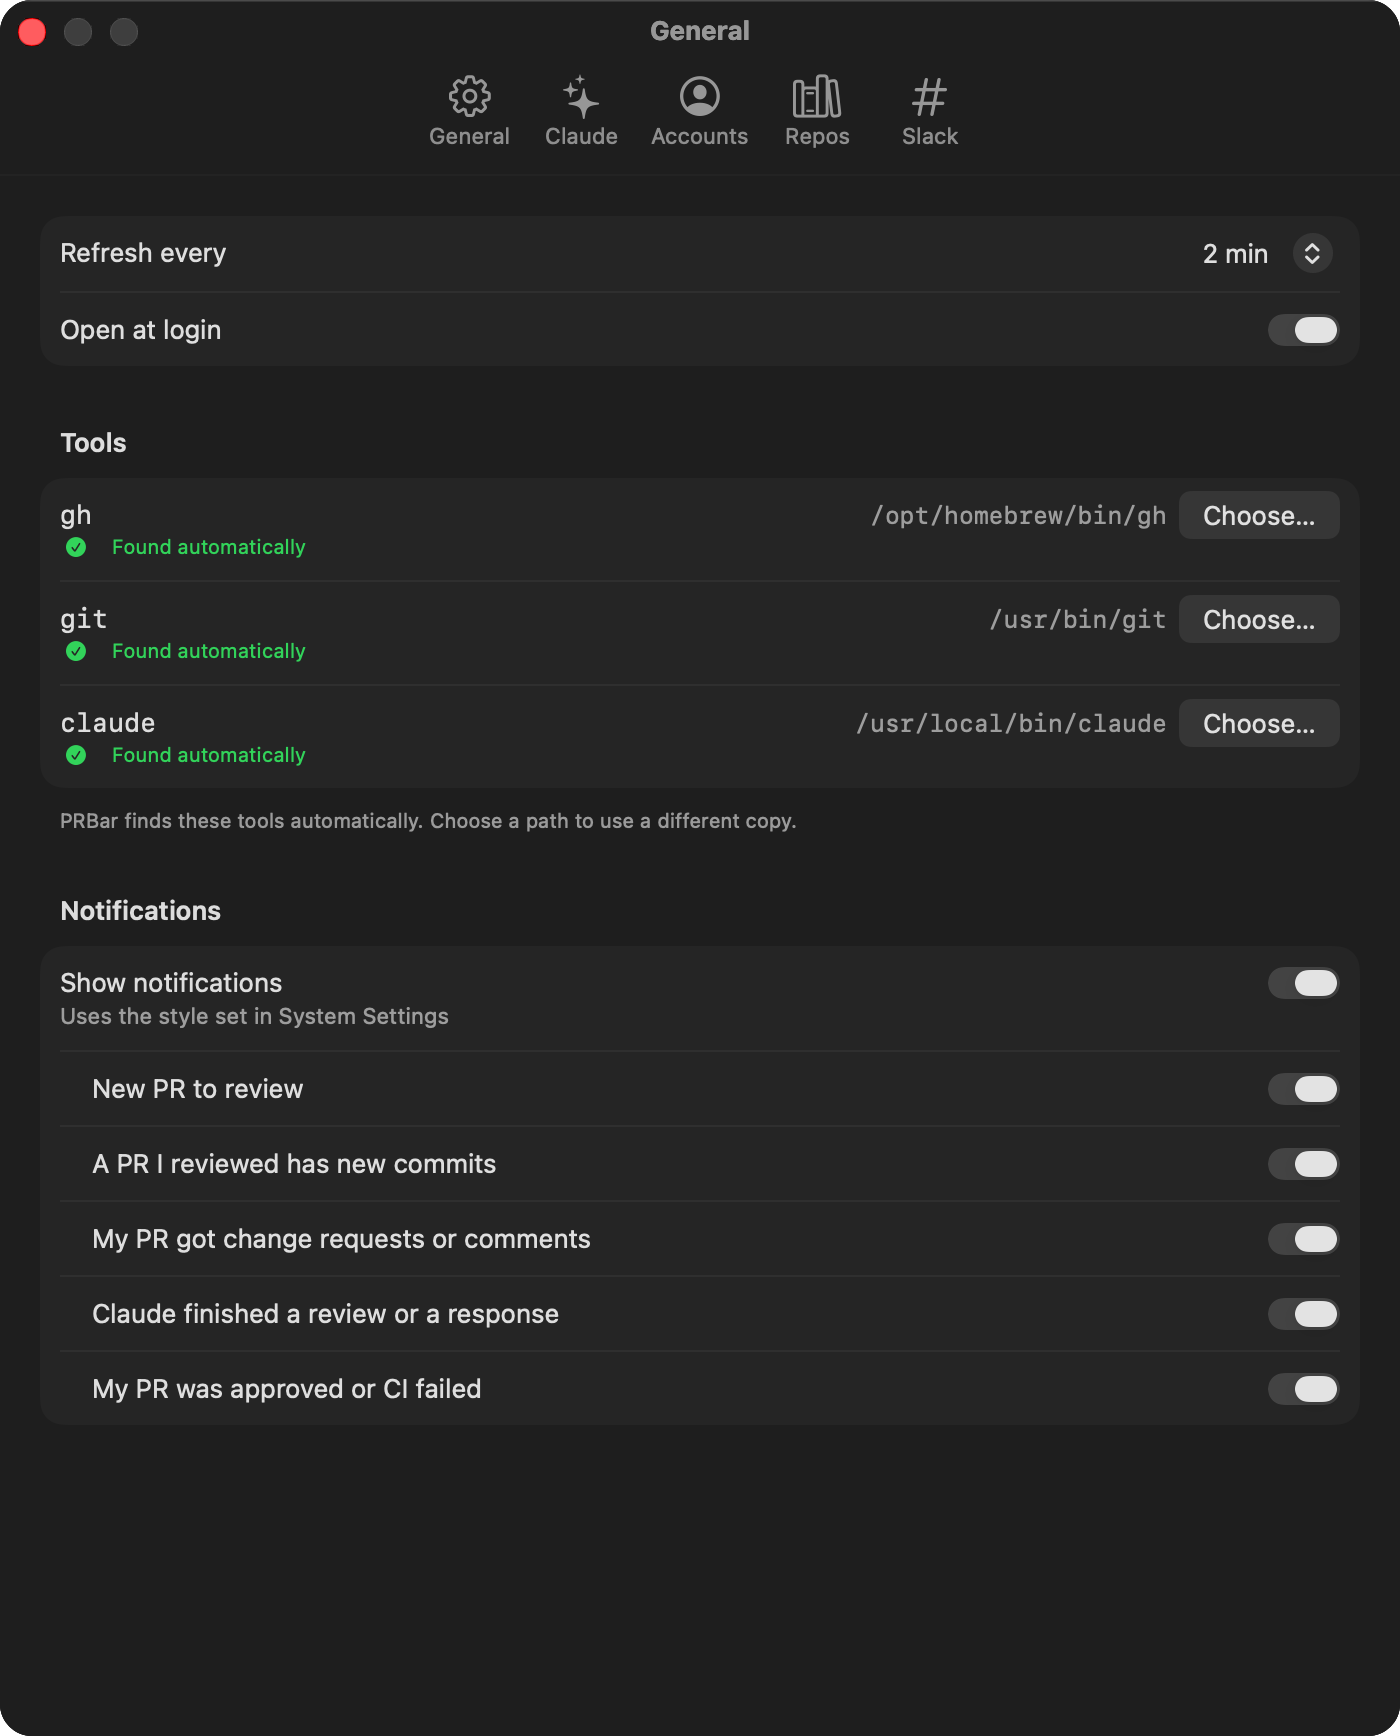
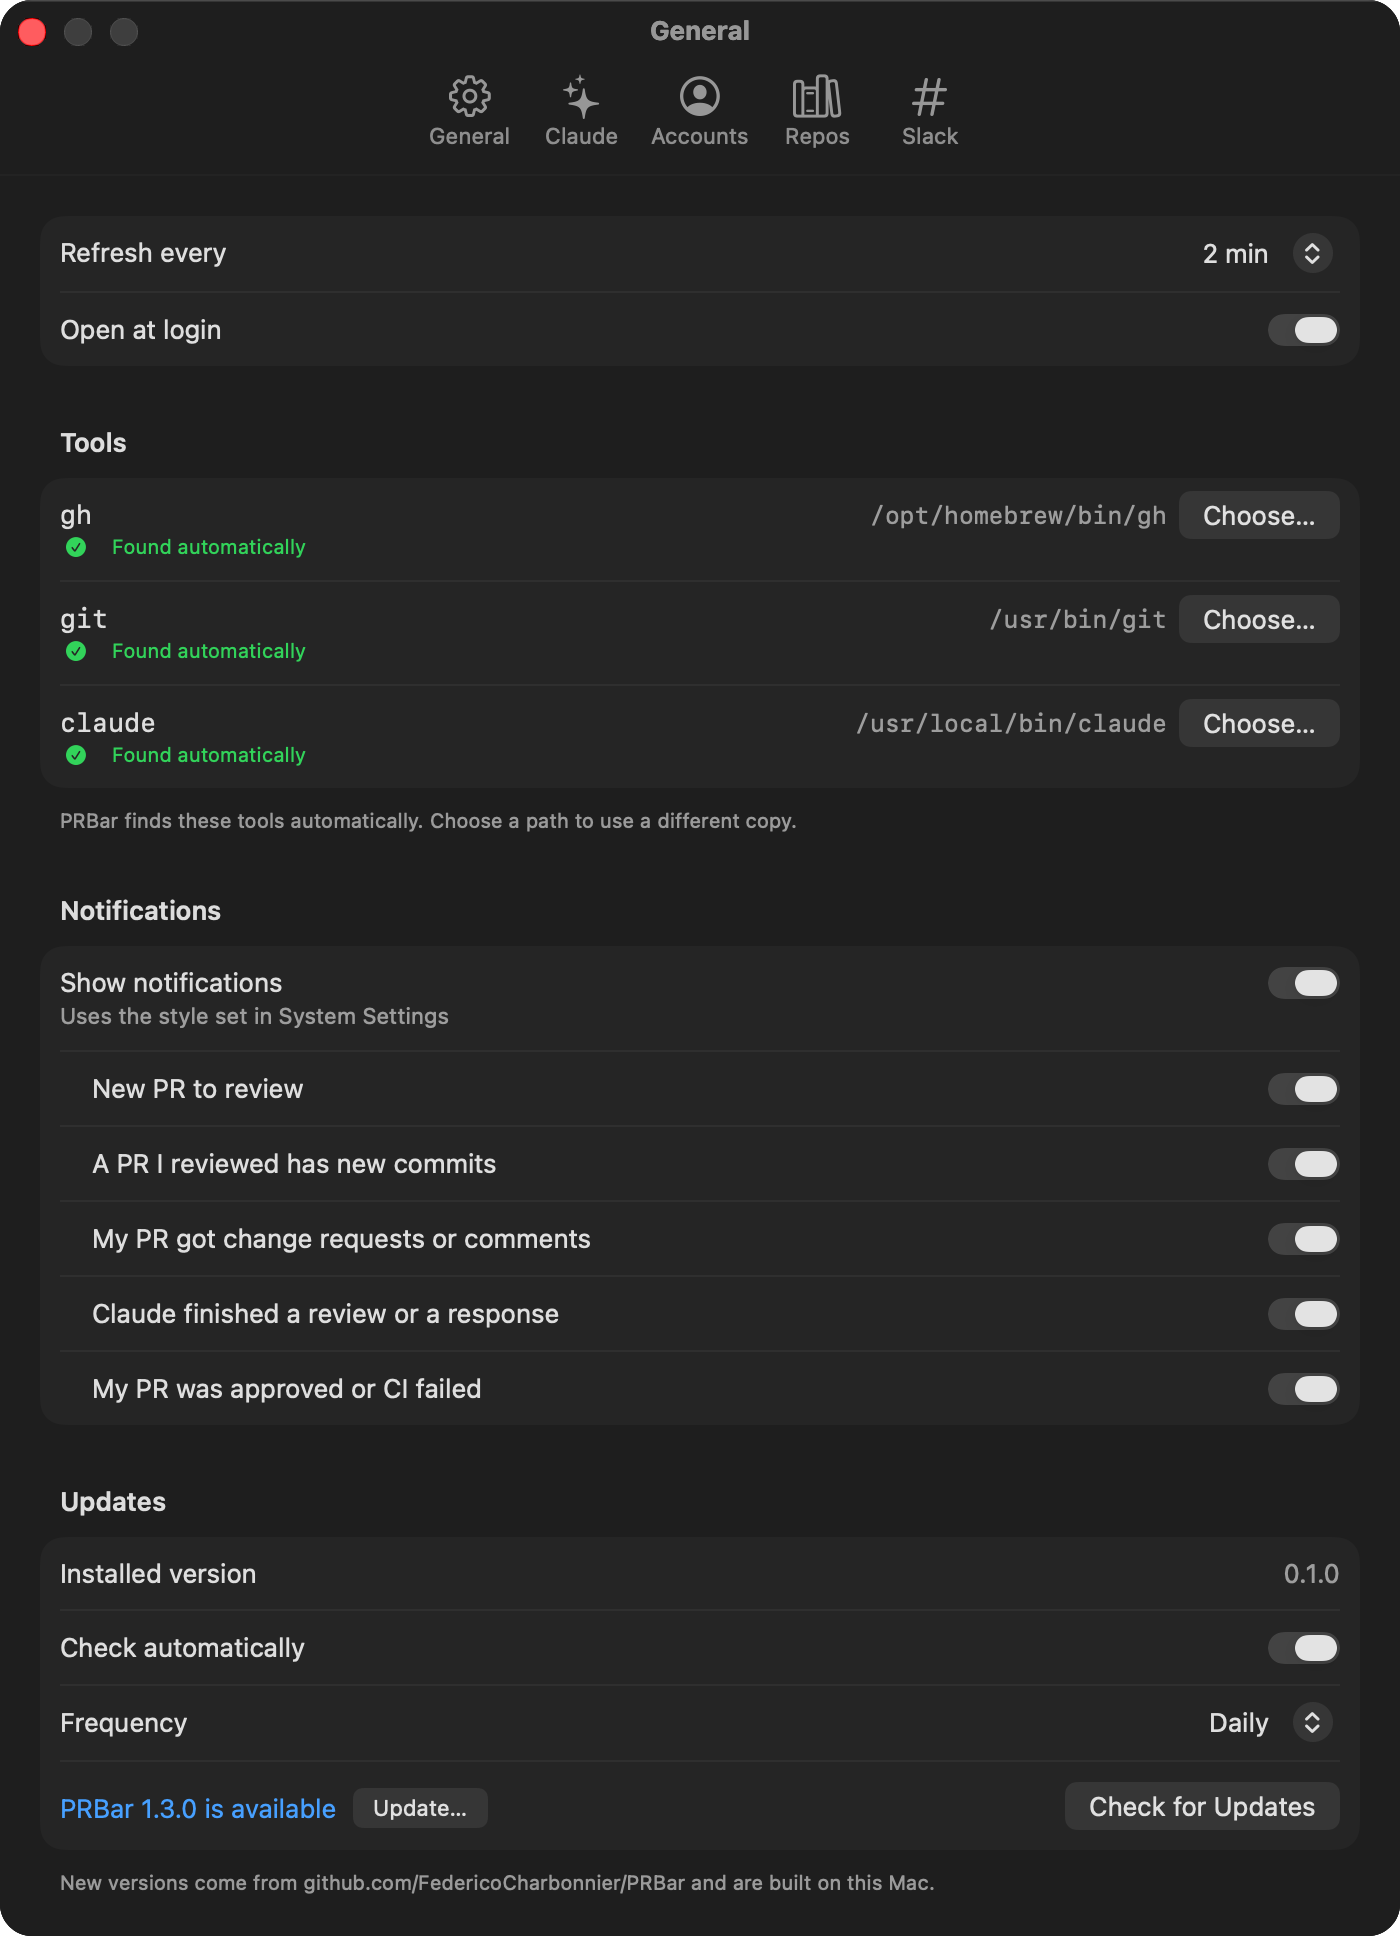
feat(snapshots): capture the update window and the updates settings

diff --git a/Sources/PRBar/Snapshots/SnapshotMode.swift b/Sources/PRBar/Snapshots/SnapshotMode.swift
@@ -89,6 +89,7 @@ private final class SnapshotSession {
         try await history()
         try await settings()
         try await notification()
+        try await updateWindow()
         return written
     }
 
@@ -128,6 +129,14 @@ private final class SnapshotSession {
     }
 
     // MARK: Screens
+
+    private func updateWindow() async throws {
+        let model = try makeModel("update", snapshot: fixtures.snapshot)
+        model.updates.applySnapshotState(available: SnapshotFixtures.updateRelease)
+        try await window("update", title: "Update PRBar", size: UpdateWindow.size) {
+            UpdateWindow(updates: model.updates, mode: .available(SnapshotFixtures.updateRelease), close: {})
+        }
+    }
 
     private func menuBarIcon() throws {
         let icon = BadgeIcon.image(for: .count(5))
@@ -258,8 +267,9 @@ private final class SnapshotSession {
 
     private func settings() async throws {
         let model = try makeModel("settings", snapshot: fixtures.snapshot)
+        model.updates.applySnapshotState(available: SnapshotFixtures.updateRelease)
         let sizes: [SettingsWindow.Tab: NSSize] = [
-            .general: NSSize(width: 700, height: 780),
+            .general: NSSize(width: 700, height: 880),
             .claude: NSSize(width: 700, height: 820),
             .repos: NSSize(width: 700, height: 940),
             .slack: NSSize(width: 700, height: 1180),

diff --git a/Sources/PRBar/Snapshots/SnapshotFixtures.swift b/Sources/PRBar/Snapshots/SnapshotFixtures.swift
@@ -443,3 +443,16 @@ struct SnapshotFixtures {
         ])
     }
 }
+
+extension SnapshotFixtures {
+    /// Versión nueva ficticia para la ventana "Update PRBar" y Settings › General.
+    static let updateRelease = ReleaseInfo(
+        version: SemanticVersion(1, 3, 0), tag: "v1.3.0", title: "PRBar 1.3.0",
+        notes: """
+        - Chat with Claude in the Review and Respond windows
+        - New `prbar` command-line tool
+        - Faster refresh with many repos
+        """,
+        url: URL(string: "https://github.com/FedericoCharbonnier/PRBar/releases/tag/v1.3.0")!, publishedAt: nil
+    )
+}
